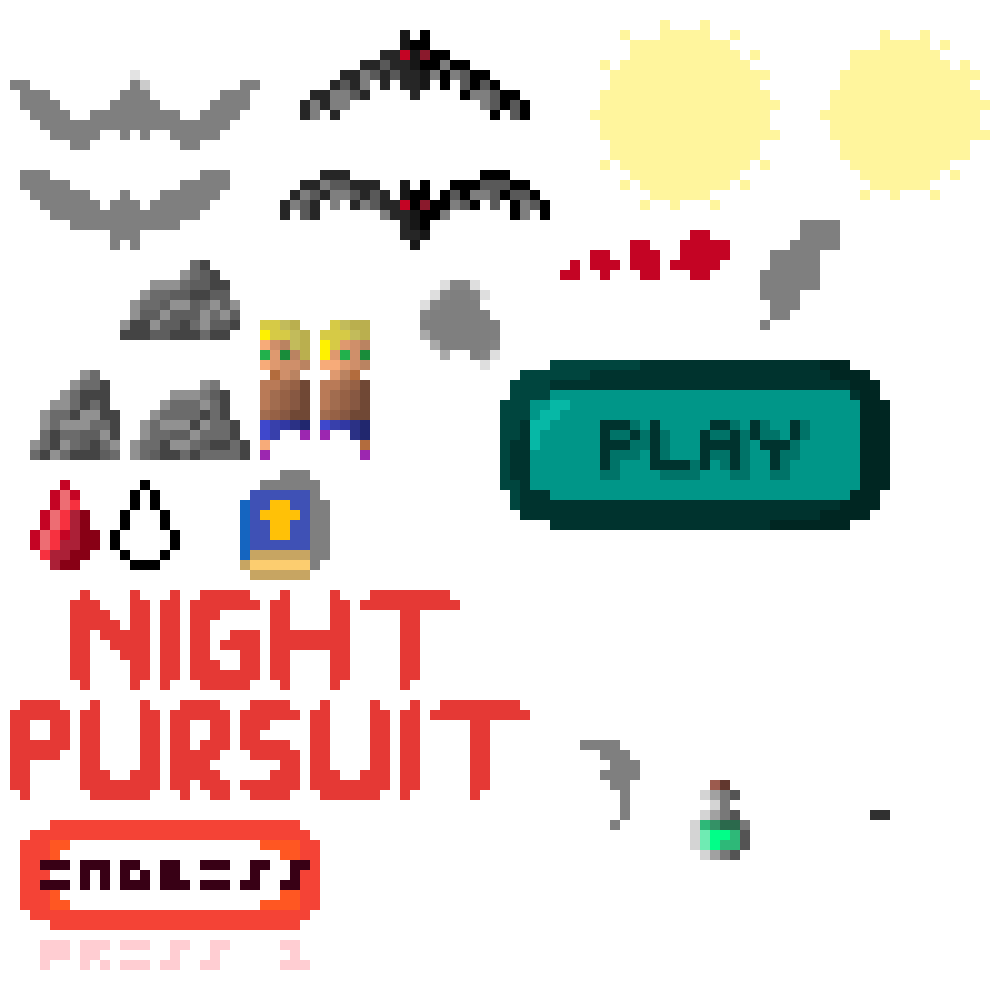
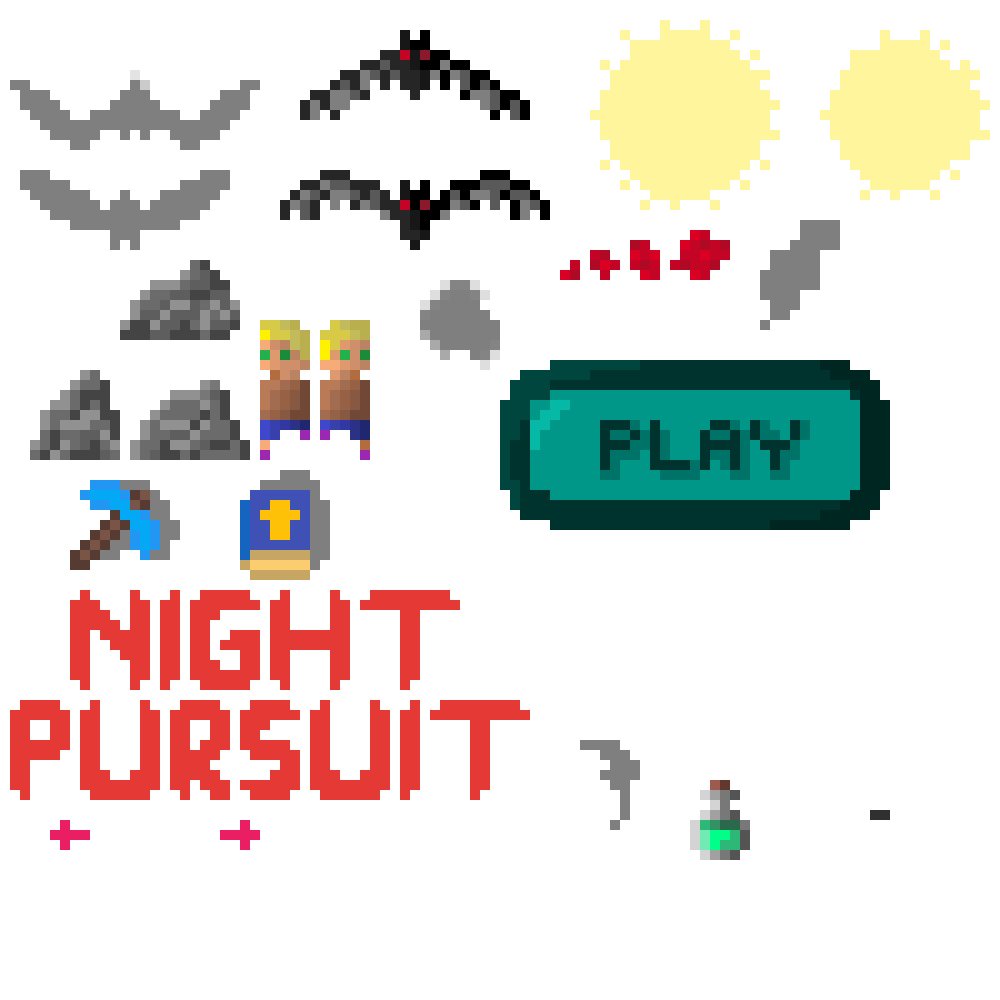
all

Changed region(s): [[0.0, 0.806, 0.341, 0.992], [0.031, 0.465, 0.186, 0.589]]

diff --git a/scripts.js b/scripts.js
@@ -7,6 +7,7 @@ let canvas = document.getElementById('canvas')
 
 import {c, ctx} from "./modules/canvas.js";
 import {Background} from "./modules/background.js";
+import {Pickaxe} from "./modules/pickaxe.js";
 import {Energy} from "./modules/energy.js";
 import {Blood} from "./modules/blood.js";
 import {Rock} from "./modules/rock.js";
@@ -42,9 +43,12 @@ let scoreNumber = 0
 var bloodArray = []
 var rockArray = []
 var bibleArray = []
+var pickaxeArray = []
+var pickaxeCounter = 0
+var randomPickaxe= 10
 var energyArray = []
 var effectCouter = 0
-var bibleCounter = 0
+var bibleCounter = 430
 var playerPreviousPos = []
 var randomEnergy= 270
 var randomBible= 220
@@ -55,7 +59,7 @@ var randomBloodSpawn = Math.ceil(Math.random()*100/4)
 function handleBlood(){
     if (gameFrame % randomBloodSpawn == 0){
         randomBloodSpawn = Math.ceil(Math.random()*100/4)
-        bloodArray.push( new Blood(player.x)) 
+        bloodArray.push( new Blood(player.x))
     }
     for (let i = 0; i <bloodArray.length; i++){
         bloodArray[i].draw(gameSpeed)
@@ -75,7 +79,7 @@ function handleRock(){
         rockArray.push(new Rock()) 
     }
     for (let i = 0; i<rockArray.length; i++){
-        rockArray[i].draw(gameSpeed)
+        rockArray[i].draw(gameSpeed,pickaxeCounter!=0,player.x)
         if (rockArray[i].y <= -50){
             rockArray.splice(i,1)
             i --
@@ -105,6 +109,20 @@ function handleBible(){
         bibleArray[i].draw(gameSpeed)
         if (bibleArray[i].y <= -50){
             bibleArray.splice(i,1)
+            i --
+        }
+    }
+}
+
+function handlePickaxe(){
+    if (gameFrame % randomPickaxe == 0){
+        randomPickaxe = 430
+        pickaxeArray.push(new Pickaxe()) 
+    }
+    for (let i = 0; i<pickaxeArray.length; i++){
+        pickaxeArray[i].draw(gameSpeed)
+        if (pickaxeArray[i].y <= -50){
+            pickaxeArray.splice(i,1)
             i --
         }
     }
@@ -188,6 +206,25 @@ function handlePlayer(){
             bibleCounter ++
         }
     }
+
+    if (pickaxeCounter != 0){
+        pickaxeCounter ++
+        if (pickaxeCounter >=80){
+            pickaxeCounter = 0
+        }
+    }
+
+    for (let i = 0; i<pickaxeArray.length; i++){
+        if (player.x > pickaxeArray[i].x + pickaxeArray[i].frameW ||
+            player.x + player.width < pickaxeArray[i].x ||
+            player.y > pickaxeArray[i].y + pickaxeArray[i].frameH ||
+            player.y + player.height < pickaxeArray[i].y){
+        }else {
+            pickaxeArray.splice(i--,1)
+            audio.play();
+            pickaxeCounter ++
+        }
+    }
 }
 
 function handleVampire(){
@@ -218,6 +255,7 @@ window.addEventListener("keydown", function(event) {
             c.getContext('2d').drawImage(shader, 0, 0, 1000, 1010);
             handleEnergy()
             handleBible()
+            handlePickaxe()
             handlePlayer()
             handleVampire()
             handleScore()
@@ -259,6 +297,9 @@ window.addEventListener("keydown", function(event) {
                         gameFrame = 0
                         randomEnergy= 270
                         randomBible= 220
+                        pickaxeArray = []
+                        pickaxeCounter = 0
+                        randomPickaxe= 430
                     }
             }else {
                 isPlaying =false
@@ -286,6 +327,9 @@ window.addEventListener("keydown", function(event) {
                 gameFrame = 0
                 randomEnergy= 270
                 randomBible= 220
+                pickaxeArray = []
+                pickaxeCounter = 0
+                randomPickaxe= 430
             }
         },32) 
     }

diff --git a/modules/menu.js b/modules/menu.js
@@ -12,6 +12,7 @@ export function menuShow(scoreNumber){
         c.getContext('2d').drawImage(spriteSheet,500,360,390,300,500-(390/2),450, 390,300);
         c.getContext('2d').drawImage(spriteSheet,10,590,520,210,500-(480/2),100, 520,210);
         c.getContext('2d').drawImage(spriteSheet,330,960,670,30,180,930, 670,30);
+        c.getContext('2d').drawImage(spriteSheet,50,820,490,30,260,830, 490,30);
         score.draw(scoreNumber.toString())
     }   
     c.getContext('2d').drawImage(background, 0, 0, 1000, 1010); 
@@ -19,10 +20,12 @@ export function menuShow(scoreNumber){
         c.getContext('2d').drawImage(spriteSheet,500,360,390,300,500-(390/2),450, 390,300);
         c.getContext('2d').drawImage(spriteSheet,10,590,520,210,500-(480/2),100, 520,210);
         c.getContext('2d').drawImage(spriteSheet,330,960,670,30,180,930, 670,30);
+        c.getContext('2d').drawImage(spriteSheet,50,820,490,30,260,830, 490,30);
         score.draw(scoreNumber.toString())
     }
     c.getContext('2d').drawImage(spriteSheet,500,360,390,300,500-(390/2),450, 390,300);
     c.getContext('2d').drawImage(spriteSheet,10,590,520,210,500-(480/2),100, 520,210);
     c.getContext('2d').drawImage(spriteSheet,330,960,670,30,180,930, 670,30);
+    c.getContext('2d').drawImage(spriteSheet,50,820,490,30,260,830, 490,30);
     score.draw(scoreNumber.toString())
 }

diff --git a/modules/pickaxe.js b/modules/pickaxe.js
@@ -1,0 +1,27 @@
+import {c, ctx} from "./canvas.js";
+
+//Environment.js
+class Pickaxe {
+    constructor(){
+        this.x = Math.random()*1000
+        if (this.x <= 50){
+            this.x += 50
+        }
+        if (this.x >= 450){
+            this.x -= 50
+        }
+        this.y = 1000;
+        this.spriteSheet = new Image()
+        this.spriteSheet.src = "pixil-frame-0.png"
+        this.frameX = 70
+        this.frameY = 480
+        this.frameW = 110
+        this.frameH = 90
+    }
+    draw(speed){
+        
+        this.y -= speed
+        c.getContext('2d').drawImage(this.spriteSheet,this.frameX,this.frameY,this.frameW,this.frameH,this.x, this.y, this.frameW,this.frameH);
+    }
+}
+export {Pickaxe};

diff --git a/modules/rock.js b/modules/rock.js
@@ -33,7 +33,14 @@ class Rock {
             }
         }
     }
-    draw(speed){
+    draw(speed,pickaxe,playerPos){
+        if (pickaxe){
+            if (playerPos < this.x){
+                this.x += 10
+            }else {
+                this.x -= 10
+            }
+        }
         this.y -= speed
         c.getContext('2d').drawImage(this.spriteSheet,420,280,80,80,this.x+ this.frameW/2, this.y-10, 80,80);
         c.getContext('2d').drawImage(this.spriteSheet,this.frameX,this.frameY,this.frameW,this.frameH,this.x, this.y, this.frameW,this.frameH);
